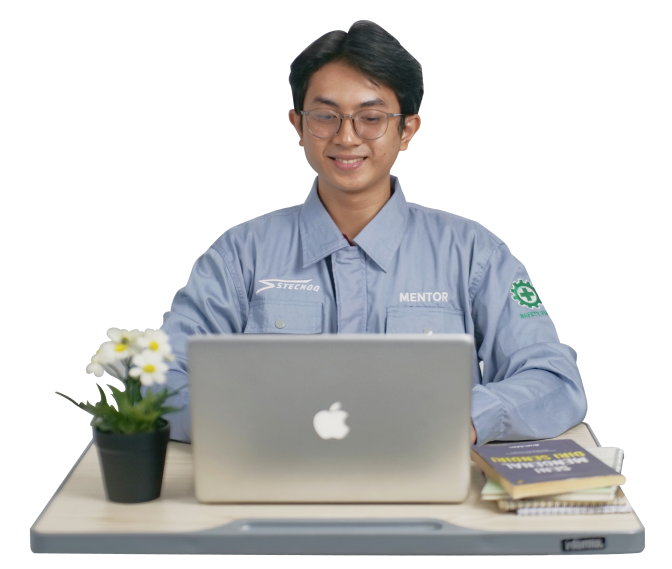
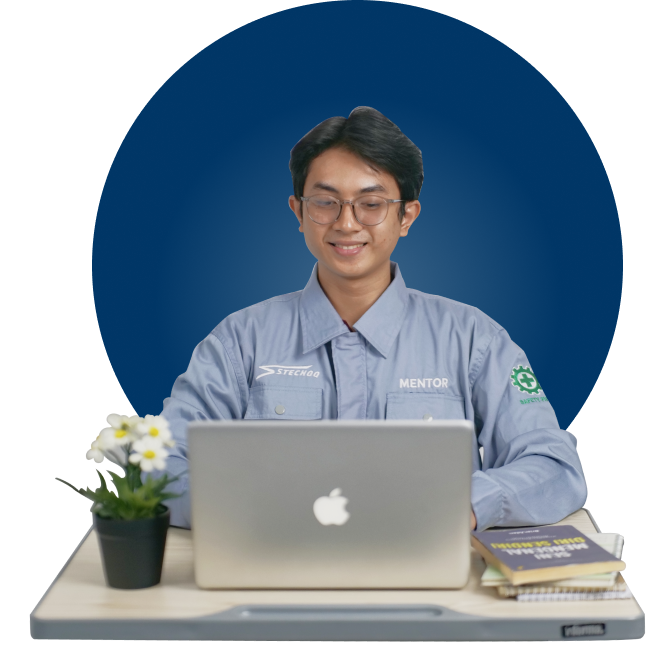
feat : update landing page img

diff --git a/theme/edumy/ccn/ccn_themehandler_context.php b/theme/edumy/ccn/ccn_themehandler_context.php
@@ -8,7 +8,7 @@ $templatecontext = [
   'image_welcome_card' => $CFG->wwwroot . '/theme/edumy/pix/welcome_card.png',
   'stechoq_copyright' => '© Copyright 2023 STECHOQ',
   'image_url' => $CFG->wwwroot . '/theme/edumy/templates/img/robot.png', //image pada locallogin
-  'breadcumb_img' => $CFG->wwwroot . '/theme/edumy/templates/img/learn1.png', //gambar yang ada di breadcump
+  'breadcumb_img' => $CFG->wwwroot . '/theme/edumy/images/breadcumb_img.png', //gambar yang ada di breadcump
   'stechoqlogo' => $CFG->wwwroot . '/theme/edumy/templates/img/logostchoq.png', // logo stechoq
   'lang_menu' =>  $langMenu,
   'sitename' => format_string($SITE->shortname, true, ['context' => context_course::instance(SITEID), "escape" => false]),

diff --git a/blocks/cocoon_hero_6/block_cocoon_hero_6.php b/blocks/cocoon_hero_6/block_cocoon_hero_6.php
@@ -102,7 +102,7 @@ class block_cocoon_hero_6 extends block_base
     $fs = get_file_storage();
     $ccnImages_background = $CFG->wwwroot . '/theme/edumy/images/ccnBgHuge.png';
     $ccnImages_foreground = $CFG->wwwroot . '/theme/edumy/images/ccnBgMd.png';
-    $ccnImages_teacher = $CFG->wwwroot . '/theme/edumy/images/ccnTeacher.png';
+    $ccnImages_teacher = $CFG->wwwroot . '/theme/edumy/images/hero6_img.png';
     for ($i = 1; $i <= 2; $i++) {
       $image = 'image' . $i;
       $files = $fs->get_area_files($this->context->id, 'block_cocoon_hero_6', 'images', $i, 'sortorder DESC, id ASC', false, 0, 0, 1);
